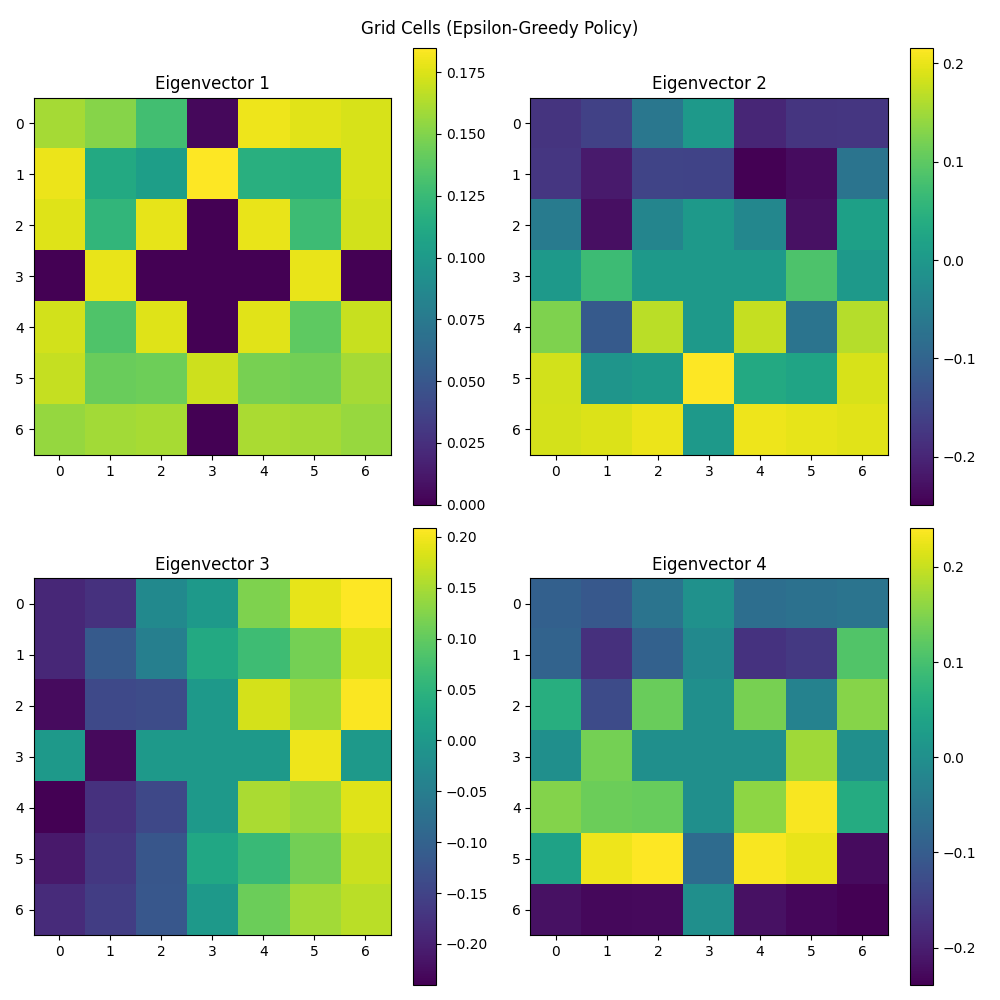
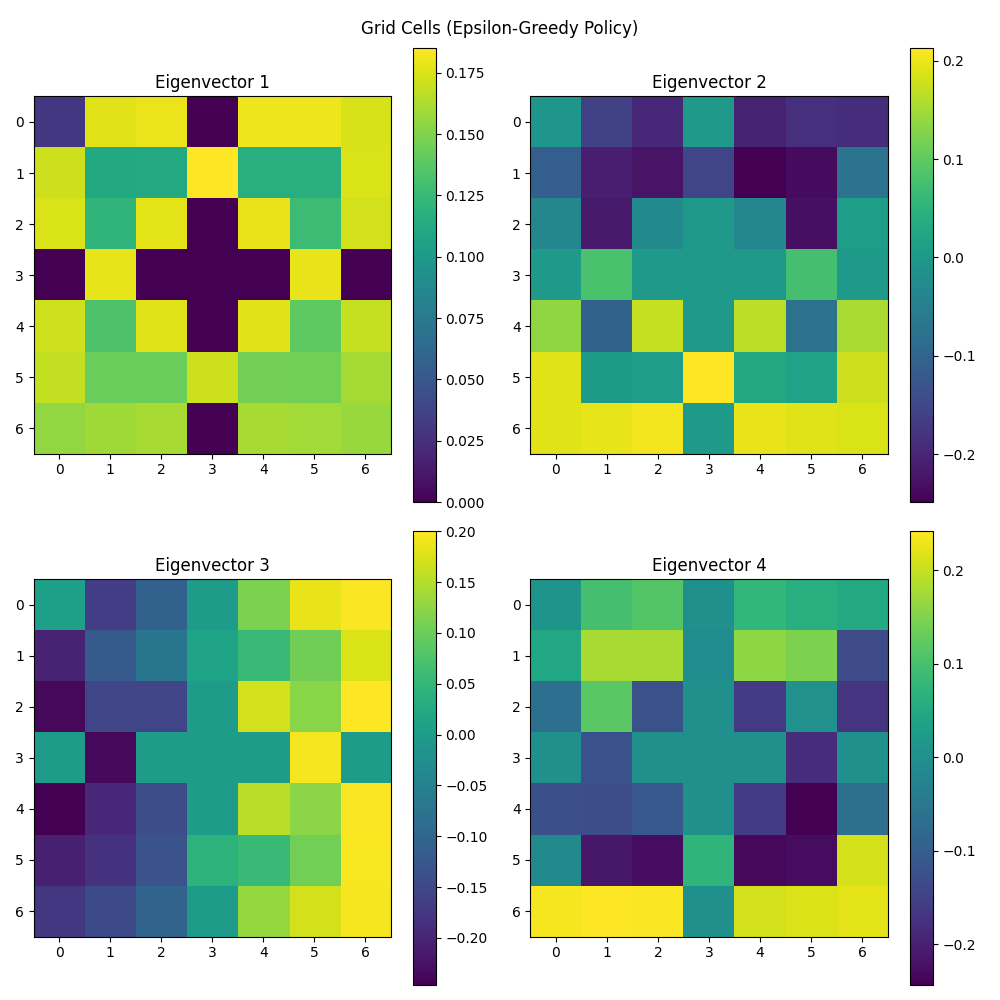
latest

diff --git a/SRGoalSlice.py b/SRGoalSlice.py
@@ -105,13 +105,17 @@ def plot_grid_cells(agent, env, title):
     # Close the plot to free up memory
     plt.close()
 
-def plot_value_functions(agent, env, title):
+def plot_value_functions(agent, env, title, trained_goals=None):
     grid_size = env.grid_size
     state_size = env.state_size
     
-    # Compute value functions for all goals
+    # If trained_goals is not provided, assume all goals were trained
+    if trained_goals is None:
+        trained_goals = range(state_size)
+    
+    # Compute value functions for trained goals
     value_functions = np.zeros((state_size, grid_size, grid_size))
-    for goal in range(state_size):
+    for goal in trained_goals:
         goal_reward = utils.onehot(goal, state_size)
         value_functions[goal] = np.max(np.matmul(agent.M, goal_reward), axis=0).reshape(grid_size, grid_size)
     
@@ -130,8 +134,12 @@ def plot_value_functions(agent, env, title):
             else:
                 # Convert (x, y) to state index
                 goal_state = y * grid_size + x
-                ax.imshow(utils.mask_grid(value_functions[goal_state], env.blocks), cmap='viridis')
-                ax.set_title(f'Goal: ({x},{y})')
+                if goal_state in trained_goals:
+                    ax.imshow(utils.mask_grid(value_functions[goal_state], env.blocks), cmap='viridis')
+                    ax.set_title(f'Goal: ({x},{y})')
+                else:
+                    ax.imshow(np.zeros((grid_size, grid_size)), cmap='viridis')
+                    ax.set_title(f'Goal: ({x},{y}) - Untrained')
             
             ax.axis('off')
     
@@ -334,15 +342,15 @@ def get_goal_sequence(total_episodes, goal_size):
     
     return goal_sequence
 
-# --------------------Training and Testing --------------------------------
+# --------------------Training and Testing Parameters --------------------------------
 # parameters for training
-train_episode_length = 50
-test_episode_length = 50
-episodes = 20000
+train_episode_length = 100
+test_episode_length = 100
+episodes = 100000
 gamma = 0.95
 lr = 5e-2
 
-initial_train_epsilon = 0.8
+initial_train_epsilon = 0.9
 epsilon_decay = 0.995
 
 test_epsilon = 0.01
@@ -376,71 +384,72 @@ random_policy_test_experiences = []
 random_policy_test_lengths = []
 random_policy_td_errors = []
 
-# # Training loop for random policy
-# for goal_index in goals_with_targets:
-#     goal_episodes = episodes_per_goal + (1 if remaining_episodes > 0 else 0)
-#     remaining_episodes = max(0, remaining_episodes - 1)
+# Training loop for random policy
+for goal_index in goals_with_targets:
+    goal_episodes = episodes_per_goal + (1 if remaining_episodes > 0 else 0)
+    remaining_episodes = max(0, remaining_episodes - 1)
     
-#     print(f"\nTraining on goal slice {goal_index} with random policy for {goal_episodes} episodes")
+    print(f"\nTraining on goal slice {goal_index} with random policy for {goal_episodes} episodes")
     
-#     epsilon = 1  # Set epsilon to 1 for random policy
+    epsilon = 1  # Set epsilon to 1 for random policy
     
-#     for episode in tqdm(range(goal_episodes), desc=f"Training goal slice {goal_index} (Random Policy)"):
-#         # training phase
-#         agent_start = random_valid_position(env)
-#         goal_pos = env.state_to_point(np.where(agent.goals[goal_index] == 1)[0][0])
+    for episode in tqdm(range(goal_episodes), desc=f"Training goal slice {goal_index} (Random Policy)"):
+        # training phase
+        # agent_start = random_valid_position(env)
+        agent_start = [0,0]
+        goal_pos = env.state_to_point(np.where(agent.goals[goal_index] == 1)[0][0])
 
-#         env.reset(agent_pos=agent_start, goal_pos=goal_pos)
-#         state = env.observation
-#         episodic_error = []
+        env.reset(agent_pos=agent_start, goal_pos=goal_pos)
+        state = env.observation
+        episodic_error = []
 
-#         for j in range(train_episode_length):
-#             action = agent.sample_action(state, epsilon=epsilon)
-#             reward = env.step(action)
-#             next_state = env.observation
-#             done = env.done
-#             random_policy_experiences.append([state, action, next_state, reward])
-#             experience = [state, action, next_state, reward, done]
+        for j in range(train_episode_length):
+            action = agent.sample_action(state, epsilon=epsilon)
+            reward = env.step(action)
+            next_state = env.observation
+            done = env.done
+            random_policy_experiences.append([state, action, next_state, reward])
+            experience = [state, action, next_state, reward, done]
             
-#             td_sr = agent.update_sr(experience)
-#             td_w = agent.update_w(experience)
-#             episodic_error.append(np.mean(np.abs(td_sr)))
+            td_sr = agent.update_sr(experience)
+            td_w = agent.update_w(experience)
+            episodic_error.append(np.mean(np.abs(td_sr)))
             
-#             state = next_state
-#             if done:
-#                 break
+            state = next_state
+            if done:
+                break
         
-#         random_policy_td_errors.append(np.mean(episodic_error))
+        random_policy_td_errors.append(np.mean(episodic_error))
         
-#         # Test phase
-#         agent_start = random_valid_position(env)
-#         env.reset(agent_pos=agent_start, goal_pos=goal_pos)
-#         state = env.observation
-#         for j in range(test_episode_length):
-#             action = agent.sample_action(state, epsilon=test_epsilon)
-#             reward = env.step(action)
-#             state_next = env.observation
-#             random_policy_test_experiences.append([state, action, state_next, reward])
-#             state = state_next
-#             if env.done:
-#                 break
-#         random_policy_test_lengths.append(j)
+        # Test phase
+        agent_start = random_valid_position(env)
+        env.reset(agent_pos=agent_start, goal_pos=goal_pos)
+        state = env.observation
+        for j in range(test_episode_length):
+            action = agent.sample_action(state, epsilon=test_epsilon)
+            reward = env.step(action)
+            state_next = env.observation
+            random_policy_test_experiences.append([state, action, state_next, reward])
+            state = state_next
+            if env.done:
+                break
+        random_policy_test_lengths.append(j)
 
-#     print("\nRandom policy training completed.")
-
-
-# # After random policy training
-# random_policy_agent = agent
+    print("\nRandom policy training completed.")
 
 
-# # Plot grid cells for random policy agent
-# plot_grid_cells(random_policy_agent, env, "Grid Cells (Random Policy)")
+# After random policy training
+random_policy_agent = agent
 
-# # Plot value functions for random policy agent
-# plot_value_functions(random_policy_agent, env, "Value Functions (Random Policy)")
 
-# # Plot raw SR matrix for random policy
-# plot_raw_sr(random_policy_agent.M, env, "Random SR Matrix")
+# Plot grid cells for random policy agent
+plot_grid_cells(random_policy_agent, env, "Grid Cells (Random Policy)")
+
+# Plot value functions for random policy agent
+plot_value_functions(random_policy_agent, env, "Value Functions (Random Policy)")
+
+# Plot raw SR matrix for random policy
+plot_raw_sr(random_policy_agent.M, env, "Random SR Matrix")
 
 
 # --------------------Epsilon greedy Training Loop --------------------
@@ -487,7 +496,8 @@ for goal_index in goals_with_targets:
     for episode in tqdm(range(goal_episodes), desc=f"Training goal slice {goal_index}"):
         # training phase
 
-        agent_start = random_valid_position(env)
+        # agent_start = random_valid_position(env)
+        agent_start = [0,0]
         goal_pos = env.state_to_point(np.where(agent.goals[goal_index] == 1)[0][0])
 
         env.reset(agent_pos=agent_start, goal_pos=goal_pos)
@@ -556,10 +566,12 @@ for goal_index in goals_with_targets:
     #                   np.mean(test_lengths[-50:])), end='')
 
 
+# After training
+trained_goals = goals_with_targets  # Assuming this contains the indices of the goals used in training
+# plot_value_functions(agent, env, "Value Functions (Epsilon-Greedy Policy)", trained_goals)
 
 # After epsilon-greedy policy training
 epsilon_greedy_agent = agent
-
 
 # Plot grid cells for epsilon-greedy policy agent
 plot_grid_cells(epsilon_greedy_agent, env, "Grid Cells (Epsilon-Greedy Policy)")
@@ -570,18 +582,18 @@ plot_value_functions(epsilon_greedy_agent, env, "Value Functions (Epsilon-Greedy
 # Plot raw SR matrix for epsilon-greedy policy
 plot_raw_sr(epsilon_greedy_agent.M, env, "WVF e-Greedy SR Matrix")
 
-# Compare raw SR matrices
-plt.figure(figsize=(20, 10))
-plt.subplot(121)
-plt.imshow(np.mean(random_policy_agent.M, axis=0), cmap='viridis')
-plt.title("Random Policy SR Matrix")
-plt.colorbar()
-plt.subplot(122)
-plt.imshow(np.mean(epsilon_greedy_agent.M, axis=0), cmap='viridis')
-plt.title("Epsilon-Greedy Policy SR Matrix")
-plt.colorbar()
-plt.tight_layout()
-plt.show()
+# # Compare raw SR matrices
+# plt.figure(figsize=(20, 10))
+# plt.subplot(121)
+# plt.imshow(np.mean(random_policy_agent.M, axis=0), cmap='viridis')
+# plt.title("Random Policy SR Matrix")
+# plt.colorbar()
+# plt.subplot(122)
+# plt.imshow(np.mean(epsilon_greedy_agent.M, axis=0), cmap='viridis')
+# plt.title("Epsilon-Greedy Policy SR Matrix")
+# plt.colorbar()
+# plt.tight_layout()
+# plt.show()
 
 
 # # ---------After training---------
